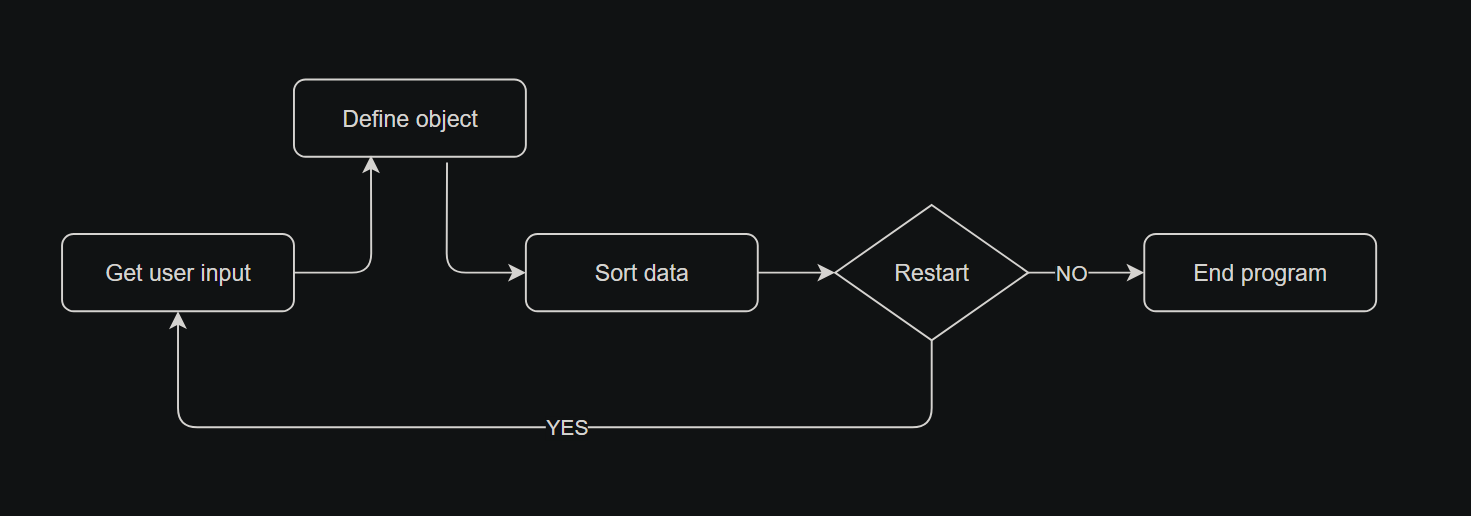
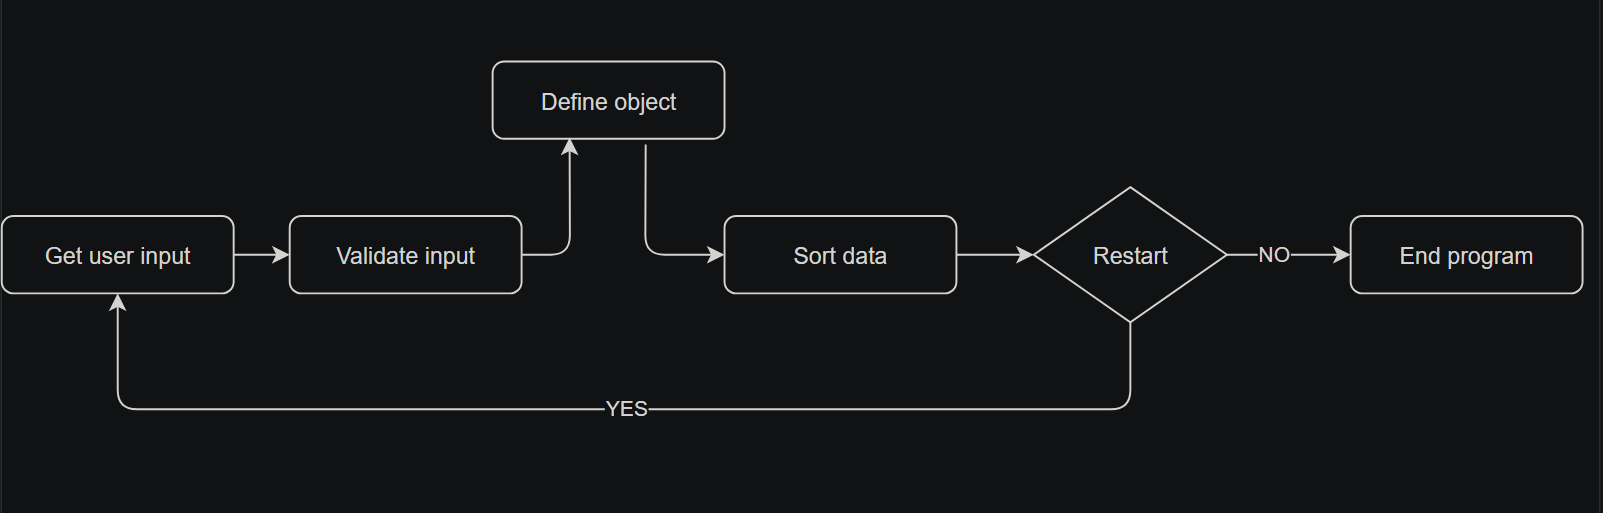
Update README.md with Validate user input and Object Oriented Programming headings

diff --git a/README.md b/README.md
@@ -22,9 +22,13 @@ The first version of the code for this output was a separate print statement for
 
 The program features a .csv reader to parse the two .csv files and extract specific elements in order to sort them. This part of the program creates two variables, data and data_categories, which are lists containing the contents of each .csv file. Other parts of the program will reference specific indices of these lists to retrieve data from them as required.
 
-![Screenshot of the .csv reader code](assets/images/screencap3a.PNG)
+![Screenshot of the .csv reader code](assets/images/screencap3.PNG)
 
 - ### Validates user input
+
+Once the user has entered a number to select which category they wish to sort, the validate_input function is called, using the user selection as an argument.
+
+
 
 - ### Object oriented programming
 
